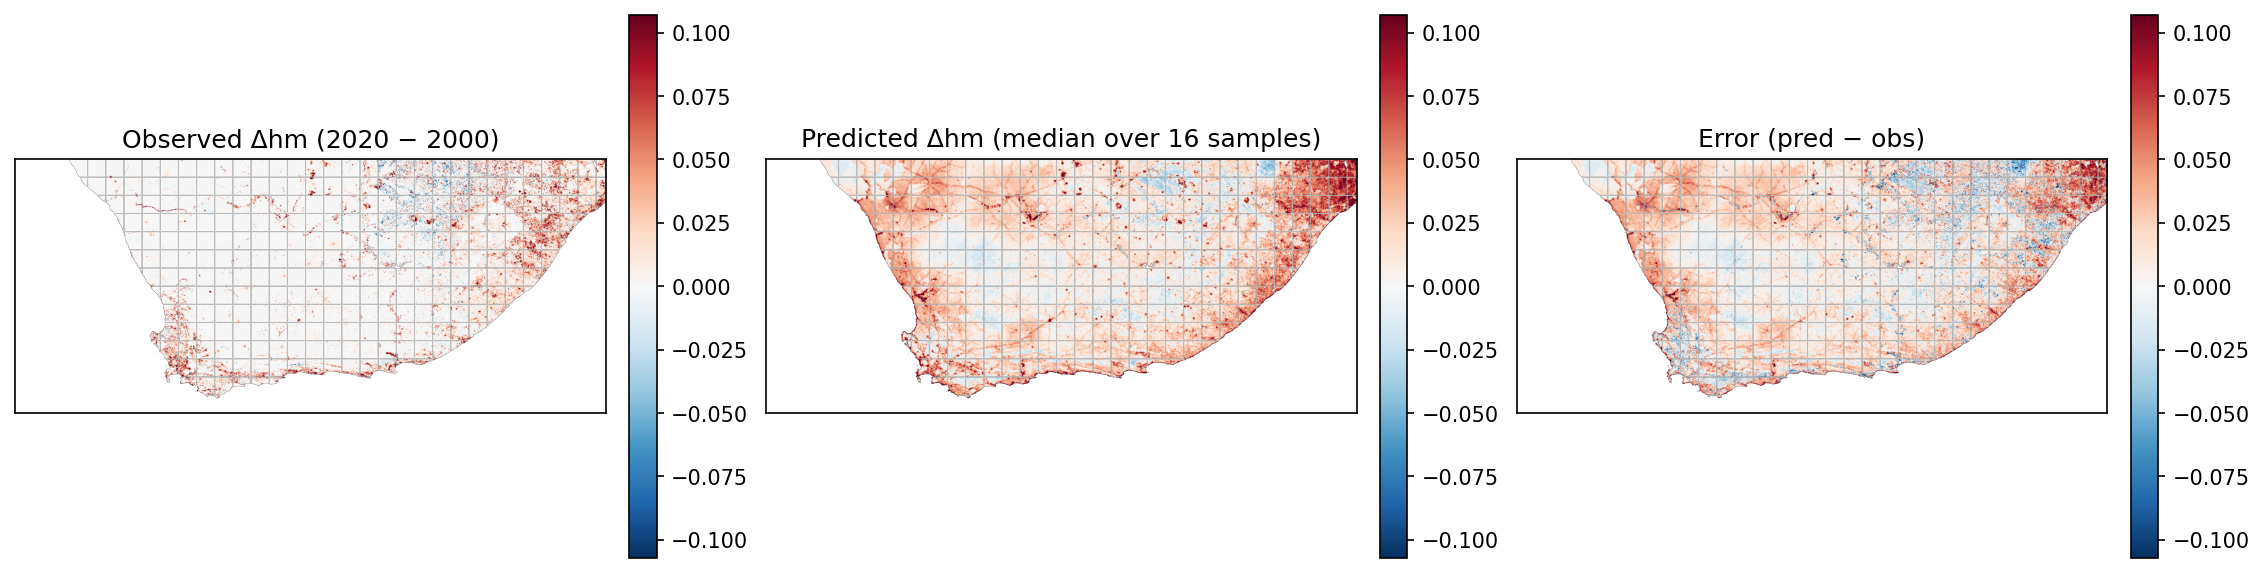
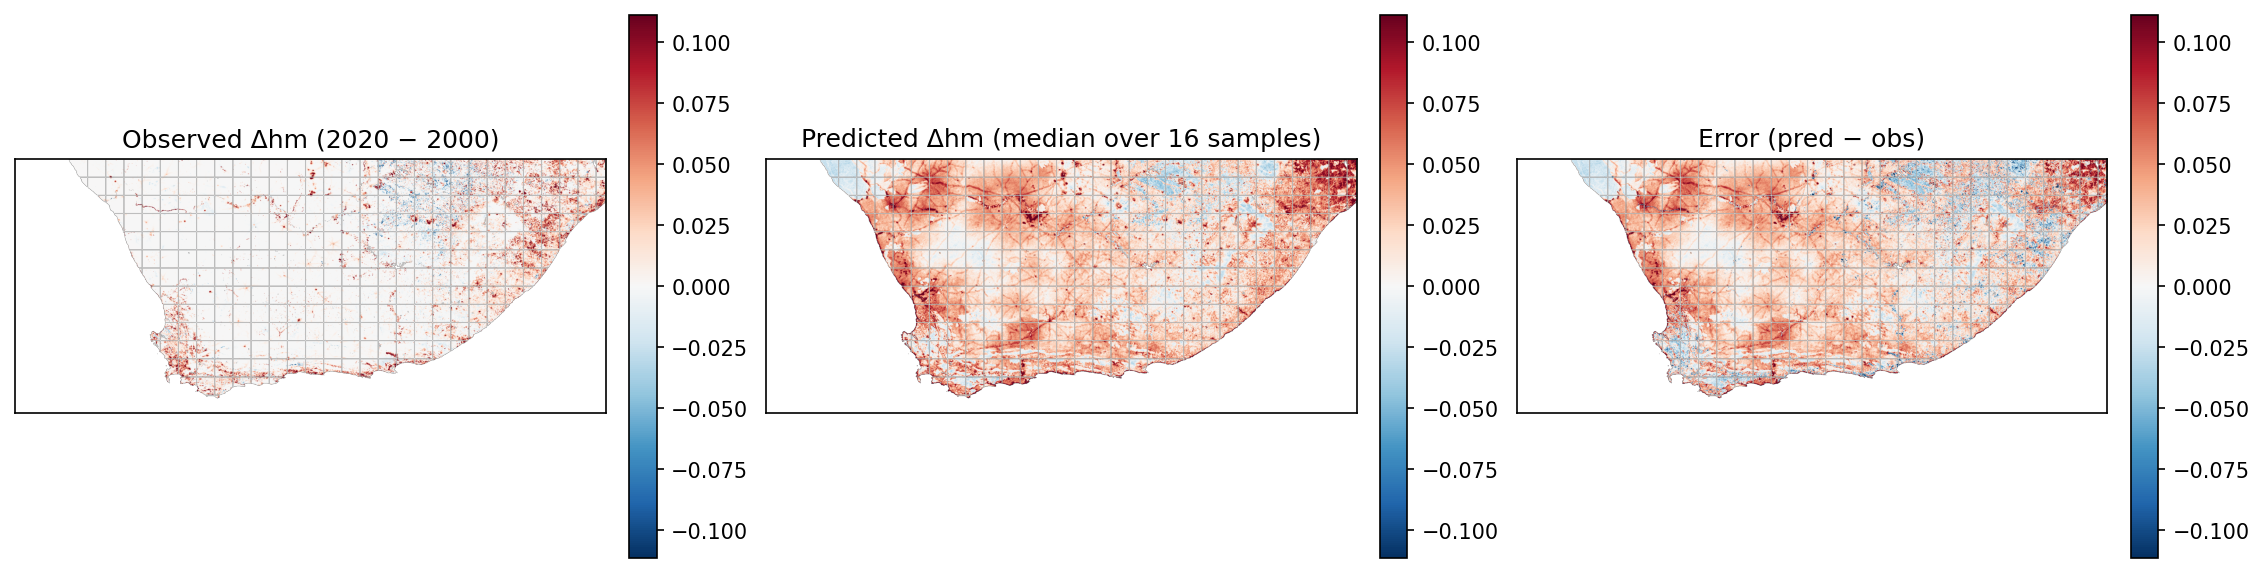
v25: mean_loss_weight 0.3→0.1 — best upper-tail yet, bulk plateaus
Same as v24 but mean_loss_weight reduced further (0.3 → 0.1). Goal
was to keep dropping mean head's relative weight to recover more bulk.
Instead the mean head's α=1.0 dominance held; bulk plateaued.

                          v20      v23      v24      v25
   bin>0.1 cov          0.083    0.441    0.247    0.239
   bin>0.2 cov          0.007    0.037    0.042    0.048   ← BEST
   POD@0.2              0.002    0.022    0.028    0.070   ← BEST
   q975 soft-POD@0.2    0.019    0.118    0.112    0.148
   q975 soft-POD@0.4    0.000    0.000    0.000    0.047   ← FIRST!
   pred_max             0.356    0.413    0.389    0.411
   xinter_median        0.604    0.175    0.343    0.246
   MAE median           0.0034   0.0279   0.0129   0.0209
   coverage rate        0.958    0.485    0.718    0.543
   Pearson r            0.738    0.622    0.534    0.412
   pred mean            +0.006   +0.035   +0.018   +0.026

Stratified med_pred:
   zero (|obs|<0.005)   v20:+0.001  v24:+0.013  v25:+0.024
   hotspot (>0.4)       v20:+0.022  v24:+0.069  v25:+0.078

Key finding: v25 is the FIRST run where q975 soft-POD@0.4 is non-zero
(4.7%). The ensemble now reaches 0.4+ at some pixels for the [0.4,
0.6] obs bin (n=120 pixels). The actual coverage envelope doesn't
quite bracket those pixels yet (bin>0.4 cov still 0%), but the
ensemble's upper bound has finally crossed 0.4.

Conclusion of the α / mean-weight sweep:
  - α=0 (v20): best bulk, no tail
  - α=0.3 with mw=1 (v22): mediocre middle
[…]

diff --git a/docs/diffusion_v1_results.md b/docs/diffusion_v1_results.md
@@ -7,7 +7,7 @@
 - Aggregate-tile size: **16×16** pixels (10 km blocks).
 - Histogram bins (rarity-weighted, matches baseline `histogram_loss.py`):
   `[-1.0, -0.005, 0.005, 0.02, 0.1, 0.2, 0.4, 0.6, 1.0]`.
-- W&B run: [glennwithtwons/spatio-temporal-diffusion/lav65f8q](https://wandb.ai/glennwithtwons/spatio-temporal-diffusion/lav65f8q)
+- W&B run: [glennwithtwons/spatio-temporal-diffusion/tqwzz9ew](https://wandb.ai/glennwithtwons/spatio-temporal-diffusion/tqwzz9ew)
 
 
 ## Iteration history (best-of-run on user-target metrics)
@@ -62,8 +62,8 @@ batches and the predict run slows from ~40 min to 2-3 h.
 
 ## Model & checkpoint
 
-- Checkpoint: `spatio-temporal-diffusion/lav65f8q/checkpoints/dhm-diffusion-epoch17-valloss1.4016.ckpt`
-- Stopping epoch: 17 (global step 288)
+- Checkpoint: `spatio-temporal-diffusion/tqwzz9ew/checkpoints/dhm-diffusion-epoch29-valloss1.0799.ckpt`
+- Stopping epoch: 29 (global step 480)
 - Architecture: `ConditionalDiffusionUNet` (`diffusers.UNet2DModel`)
   - sample_size = 64
   - base_channels = 128
@@ -83,13 +83,13 @@ batches and the predict run slows from ~40 min to 2-3 h.
 | Metric | Value |
 |---|---|
 | Tiles with valid coverage | 4,394 of 7,150 |
-| Tile-mean MAE (median) | **0.0129** |
-| Tile-mean MAE (mean) | 0.0175 |
-| Tile-mean MAE (95th %ile) | 0.0488 |
-| Histogram intersection (median) | **0.343** |
-| Histogram intersection (mean) | 0.355 |
-| Pearson r (predicted vs. observed tile-mean Δhm) | 0.534 |
-| Coverage rate (q025 ≤ obs ≤ q975), all bins | 0.718 (target ≈ 0.95) |
+| Tile-mean MAE (median) | **0.0209** |
+| Tile-mean MAE (mean) | 0.0250 |
+| Tile-mean MAE (95th %ile) | 0.0597 |
+| Histogram intersection (median) | **0.246** |
+| Histogram intersection (mean) | 0.291 |
+| Pearson r (predicted vs. observed tile-mean Δhm) | 0.412 |
+| Coverage rate (q025 ≤ obs ≤ q975), all bins | 0.543 (target ≈ 0.95) |
 
 ### Coverage stratified by Δhm change bin
 
@@ -100,12 +100,12 @@ ones where the model has to express genuine uncertainty.
 
 | Δhm bin | n pixels | Coverage |
 |---|---:|---:|
-| `[ -1.000, -0.005]` | 56,357 | 0.463 |
-| `[ -0.005, +0.005]` | 742,163 | 0.758 |
-| `[ +0.005, +0.020]` | 116,330 | 0.621 |
-| `[ +0.020, +0.100]` | 97,708 | 0.734 |
-| `[ +0.100, +0.200]` | 10,296 | 0.247 |
-| `[ +0.200, +0.400]` | 1,614 | 0.042 |
+| `[ -1.000, -0.005]` | 56,357 | 0.383 |
+| `[ -0.005, +0.005]` | 742,163 | 0.548 |
+| `[ +0.005, +0.020]` | 116,330 | 0.506 |
+| `[ +0.020, +0.100]` | 97,708 | 0.683 |
+| `[ +0.100, +0.200]` | 10,296 | 0.239 |
+| `[ +0.200, +0.400]` | 1,614 | 0.048 |
 | `[ +0.400, +0.600]` | 120 | 0.000 |
 | `[ +0.600, +1.000]` | 7 | 0.000 |
 
@@ -120,17 +120,17 @@ WassDiff (IEEE TGRS 2025), ExtremeCast (AAAI 2024), and the Aich et al. (GMD
 
 - Threshold: 0.0667
 - Observed tail mass: 1245.5662
-- Predicted tail mass: 1117.9319
-- **Ratio (pred / obs):** **0.898** (<<1 = under-predicting tail; ~1 = calibrated; >1 = over)
+- Predicted tail mass: 1670.6172
+- **Ratio (pred / obs):** **1.341** (<<1 = under-predicting tail; ~1 = calibrated; >1 = over)
 
 ### Tail exceedance (deterministic + q975 ensemble support)
 
 | Threshold | n(obs>t) | n(pred>t) | POD | CSI | FAR | q975 soft-POD |
 |---|---|---|---|---|---|---|
-| +0.050 |     42,889 |    100,341 | 0.370 | 0.125 | 0.842 | 0.953 |
-| +0.100 |     12,037 |     11,095 | 0.134 | 0.075 | 0.855 | 0.537 |
-| +0.200 |      1,741 |        248 | 0.028 | 0.025 | 0.806 | 0.112 |
-| +0.400 |        127 |          0 | 0.000 | 0.000 | nan | 0.000 |
+| +0.050 |     42,889 |    169,912 | 0.381 | 0.083 | 0.904 | 0.943 |
+| +0.100 |     12,037 |     15,339 | 0.138 | 0.064 | 0.892 | 0.567 |
+| +0.200 |      1,741 |      1,184 | 0.070 | 0.043 | 0.898 | 0.148 |
+| +0.400 |        127 |          1 | 0.000 | 0.000 | 1.000 | 0.047 |
 
 ![Q-Q max-of-field](../outputs/diffusion_v1/qq_max_of_field.png)
 
